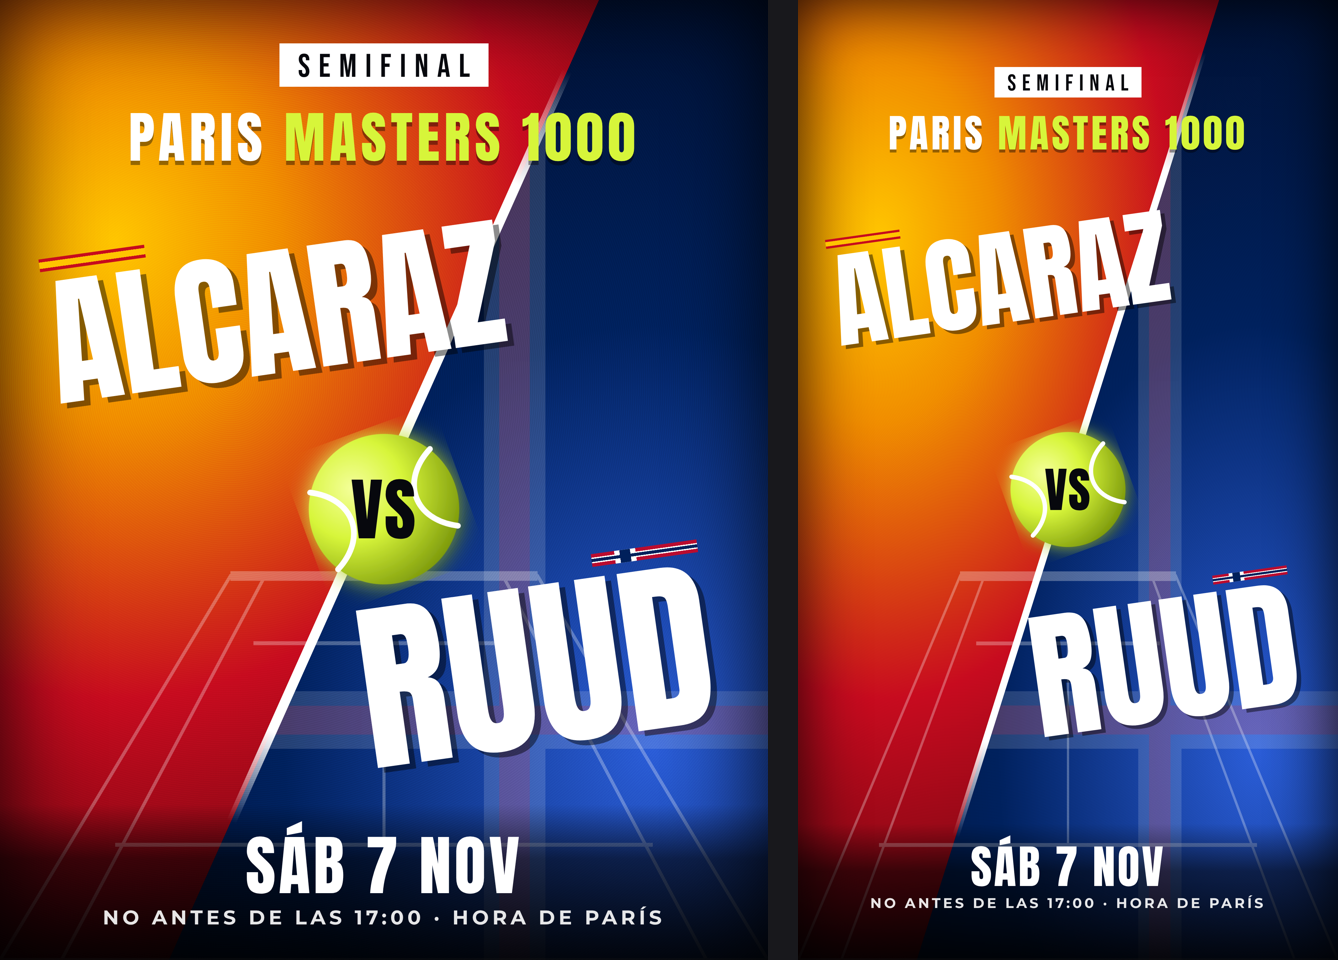
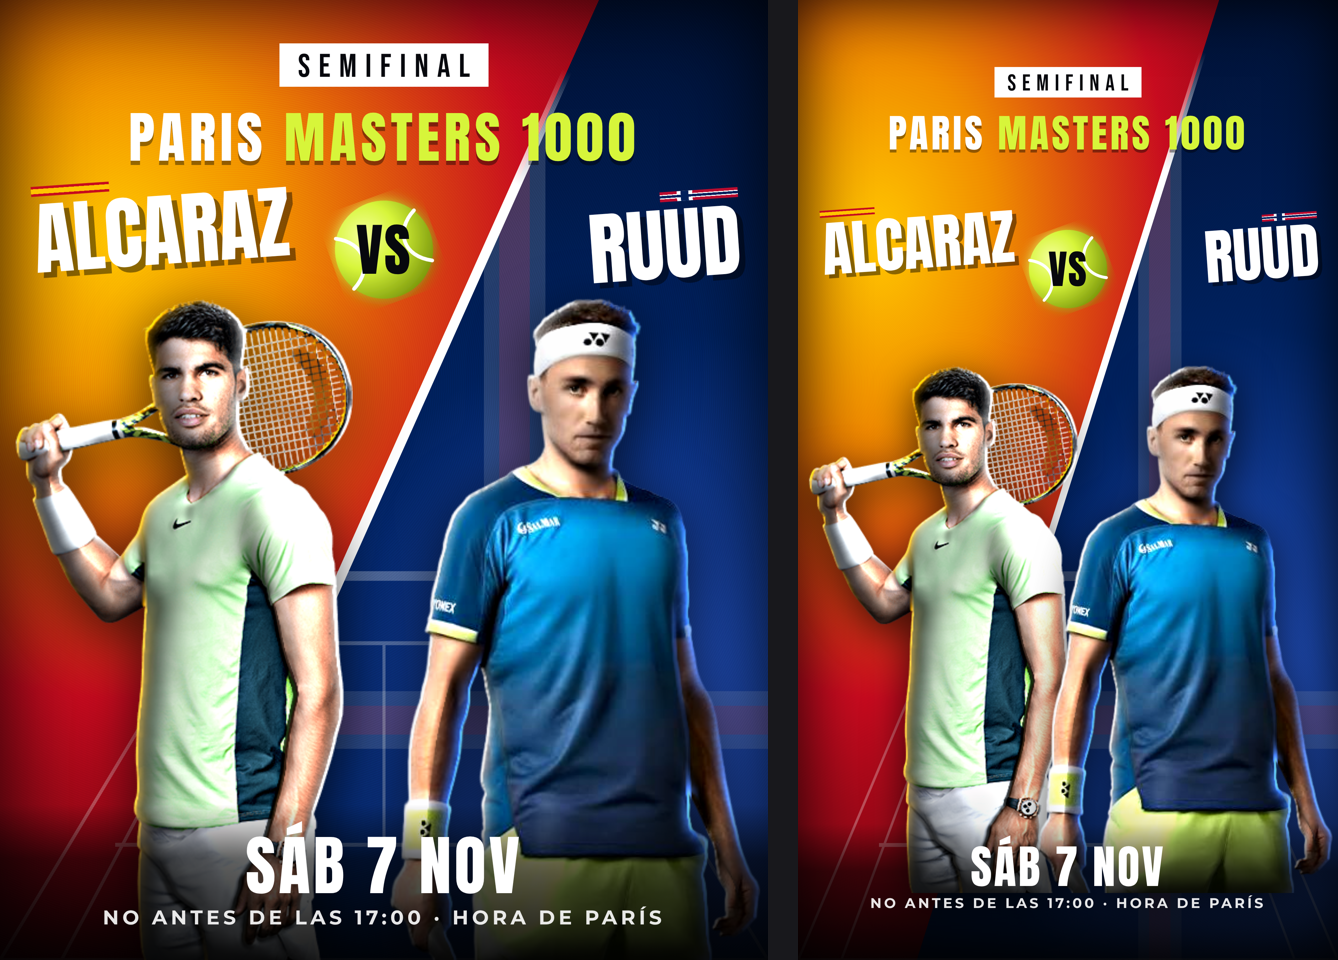
Póster Alcaraz vs Ruud: añadir a los dos jugadores con iluminación 3D
Claude-Session: https://claude.ai/code/session_01Q54DXVH7GopsR3mpjPBNRA

diff --git a/miniaturero/salida/2026-11-07_alcaraz-ruud-paris/proyecto/poster.html b/miniaturero/salida/2026-11-07_alcaraz-ruud-paris/proyecto/poster.html
@@ -54,12 +54,17 @@
   .cabecera .torneo { font-size: 78px; letter-spacing: 6px; margin-top: 12px; text-shadow: 0 6px 0 rgba(0,0,0,.4); }
   .cabecera .torneo b { font-weight: normal; color: var(--pelota); }
 
+  /* jugadores (fotos aportadas por el usuario, recortadas e iluminadas en 3D) */
+  .jugador { position: absolute; bottom: 0; height: 69%; filter: drop-shadow(0 20px 40px rgba(0,0,0,.7)); }
+  .jugador.alcaraz { left: 2%; }
+  .jugador.ruud { right: 1%; }
+
   /* nombres */
   .nombre { position: absolute; color: var(--blanco); line-height: .85; text-shadow: 8px 8px 0 rgba(0,0,0,.45); }
-  .nombre .bandera { display: block; height: 18px; width: 150px; margin-bottom: 18px; }
-  .nombre.alcaraz { left: 5%; top: 27%; font-size: 200px; transform: rotate(-8deg); transform-origin: left top; }
+  .nombre .bandera { display: block; height: 14px; width: 110px; margin-bottom: 12px; }
+  .nombre.alcaraz { left: 4%; top: 19.5%; font-size: 112px; transform: rotate(-4deg); transform-origin: left top; }
   .nombre.alcaraz .bandera { background: linear-gradient(0deg, var(--es-rojo) 25%, var(--es-amarillo) 25% 75%, var(--es-rojo) 75%); }
-  .nombre.ruud { right: 6%; bottom: 25%; font-size: 260px; text-align: right; transform: rotate(-8deg); transform-origin: right bottom; }
+  .nombre.ruud { right: 4%; top: 19.5%; font-size: 112px; text-align: right; transform: rotate(-4deg); transform-origin: right top; }
   .nombre.ruud .bandera { margin-left: auto; position: relative;
     background:
       linear-gradient(90deg, transparent 27%, var(--no-azul) 27% 37%, transparent 37%),
@@ -70,8 +75,8 @@
     -webkit-mask: linear-gradient(90deg, #000 22%, transparent 22% 42%, #000 42%); mask: linear-gradient(90deg, #000 22%, transparent 22% 42%, #000 42%); }
 
   /* pelota = VS */
-  .pelota { position: absolute; left: 50%; top: 53%; width: 230px; height: 230px; transform: translate(-50%, -50%) rotate(-20deg); }
-  .pelota .vs { position: absolute; inset: 0; display: grid; place-items: center; font-size: 96px; color: var(--fondo);
+  .pelota { position: absolute; left: 50%; top: 26%; width: 150px; height: 150px; transform: translate(-50%, -50%) rotate(-20deg); }
+  .pelota .vs { position: absolute; inset: 0; display: grid; place-items: center; font-size: 80px; color: var(--fondo);
     transform: rotate(20deg); letter-spacing: 2px; }
 
   /* pie */
@@ -85,9 +90,9 @@
   @media (max-aspect-ratio: 10/16) {
     .cabecera { top: 7%; }
     .corte { transform: translateX(-50%) rotate(17.5deg); }
-    .nombre.alcaraz { top: 25%; font-size: 210px; }
-    .nombre.ruud { bottom: 27%; font-size: 280px; }
-    .pelota { top: 51%; width: 250px; height: 250px; }
+    .jugador { height: 55%; bottom: 7%; }
+    .nombre.alcaraz, .nombre.ruud { top: 22%; font-size: 120px; }
+    .pelota { top: 28%; width: 170px; height: 170px; }
     .pie { padding-bottom: 9%; }
   }
 </style>
@@ -110,6 +115,9 @@
   <div class="corte"></div>
   <div class="grano"></div>
   <div class="vineta"></div>
+
+  <img class="jugador alcaraz" src="img/alcaraz_iluminado.png" alt="Carlos Alcaraz">
+  <img class="jugador ruud" src="img/ruud_iluminado.png" alt="Casper Ruud">
 
   <div class="cabecera">
     <div class="ronda">SEMIFINAL</div>

diff --git a/miniaturero/salida/2026-11-07_alcaraz-ruud-paris/notas.md b/miniaturero/salida/2026-11-07_alcaraz-ruud-paris/notas.md
@@ -2,10 +2,13 @@
 
 - **Datos (verificados el 7/11):** semifinal del Paris Masters 1000, sábado 7 de noviembre, **no antes de las 17:00 (hora de París, CET)**. Alcaraz ganó a Fritz y Ruud a Borges en cuartos (Flashscore, ATP Tour). La sede no se nombra (dudas sobre su nombre actual).
 - **Concepto:** duelo tipográfico. Póster partido en diagonal: lado de Alcaraz con colores de España (rojo/amarillo) y lado de Ruud con colores de Noruega (azul/rojo/blanco, con una cruz nórdica muy sutil). La pelota de tenis hace de "VS". Pista dibujada en perspectiva al fondo.
-- **Sin fotos de los jugadores:** no se usan imágenes de personas reales sin permiso. Si el usuario aporta fotos que pueda usar, se añaden recortadas e iluminadas en cada lado.
+- **Jugadores (añadidos el 7/11):** fotos aportadas por el usuario (`entrada/alcaraz.png`, `entrada/ruud.png`). Alcaraz ya venía sin fondo; a Ruud se le quitó con BiRefNet. Ambas son pequeñas (~600 px de alto), así que a 4K se ven algo blandas.
+- **Iluminación 3D** (`mini.py` → `iluminar_3d`): el foco principal de cada uno viene del centro del póster (la raya de luz). Alcaraz: contraluz dorado por fuera y blanco por dentro, foco algo más bajo (clave 0.8) para no quemar la camiseta verde. Ruud: contraluz azul por fuera y blanco por dentro.
+- **Logos de marcas:** los que llevan las camisetas y las cintas vienen en las fotos aportadas; no se ha añadido ninguno aparte.
 - **Sin logotipos:** ni del torneo ni de patrocinadores ni de la ATP. "Paris Masters 1000" va solo como texto.
 - **Fuentes:** Anton, Bebas Neue y Montserrat (SIL OFL). Banderas, pelota y pista dibujadas con código.
-- **Revisión:** 1) la raya de luz cruzaba "1000" y la fecha, no coincidía con el corte en 9:16 y la hora salía dos veces → raya desvanecida arriba/abajo, ángulo por formato, pie con fondo oscuro, una sola hora; 2) raya desplazada del corte → centrada; 3) OK.
+- **Revisión con fotos:** 1) en 9:16 los jugadores se solapaban y abajo se amontonaban nombres, jugadores y fecha → nombres arriba, VS entre ellos, jugadores abajo; 2) la bandera de Alcaraz rozaba "PARIS" → nombres más abajo; 3) OK.
+- **Revisión (versión sin fotos):** 1) la raya de luz cruzaba "1000" y la fecha, no coincidía con el corte en 9:16 y la hora salía dos veces → raya desvanecida arriba/abajo, ángulo por formato, pie con fondo oscuro, una sola hora; 2) raya desplazada del corte → centrada; 3) OK.
 
 ## Archivos
 - `poster_4x5.png` (2160×2700), `poster_9x16.png` (2160×3840), `comparativa.png`, `proyecto/poster.html`.
